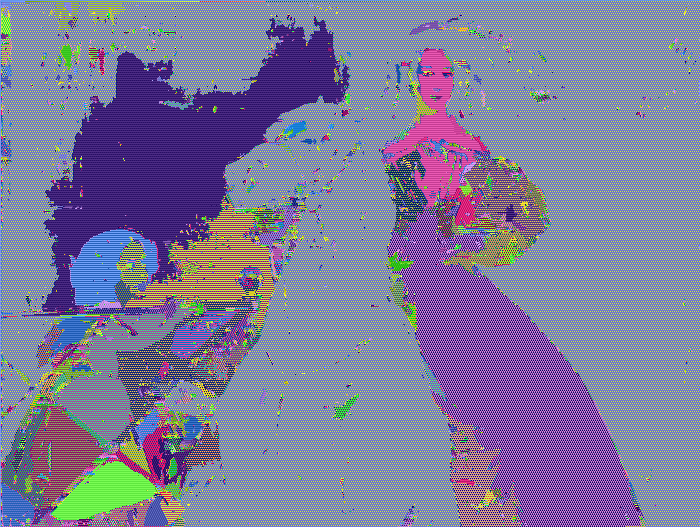
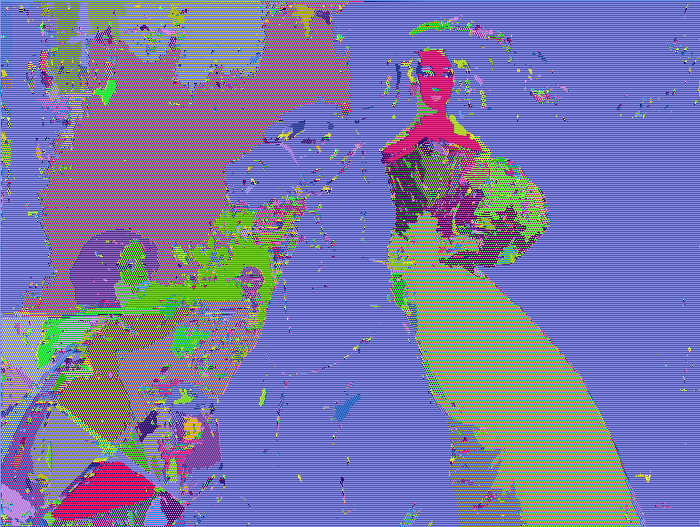
You need to stop

diff --git a/main.c b/main.c
@@ -9,8 +9,8 @@
 #define STB_IMAGE_WRITE_IMPLEMENTATION
 #include "stb_image_write.h"
 
-#define BLACK 94
-#define WHITE 166
+#define BLACK 87
+#define WHITE 170
 
 unsigned char* color_to_grey(unsigned char* Image, int w, int h, int n){
 	int i, k = 0;
